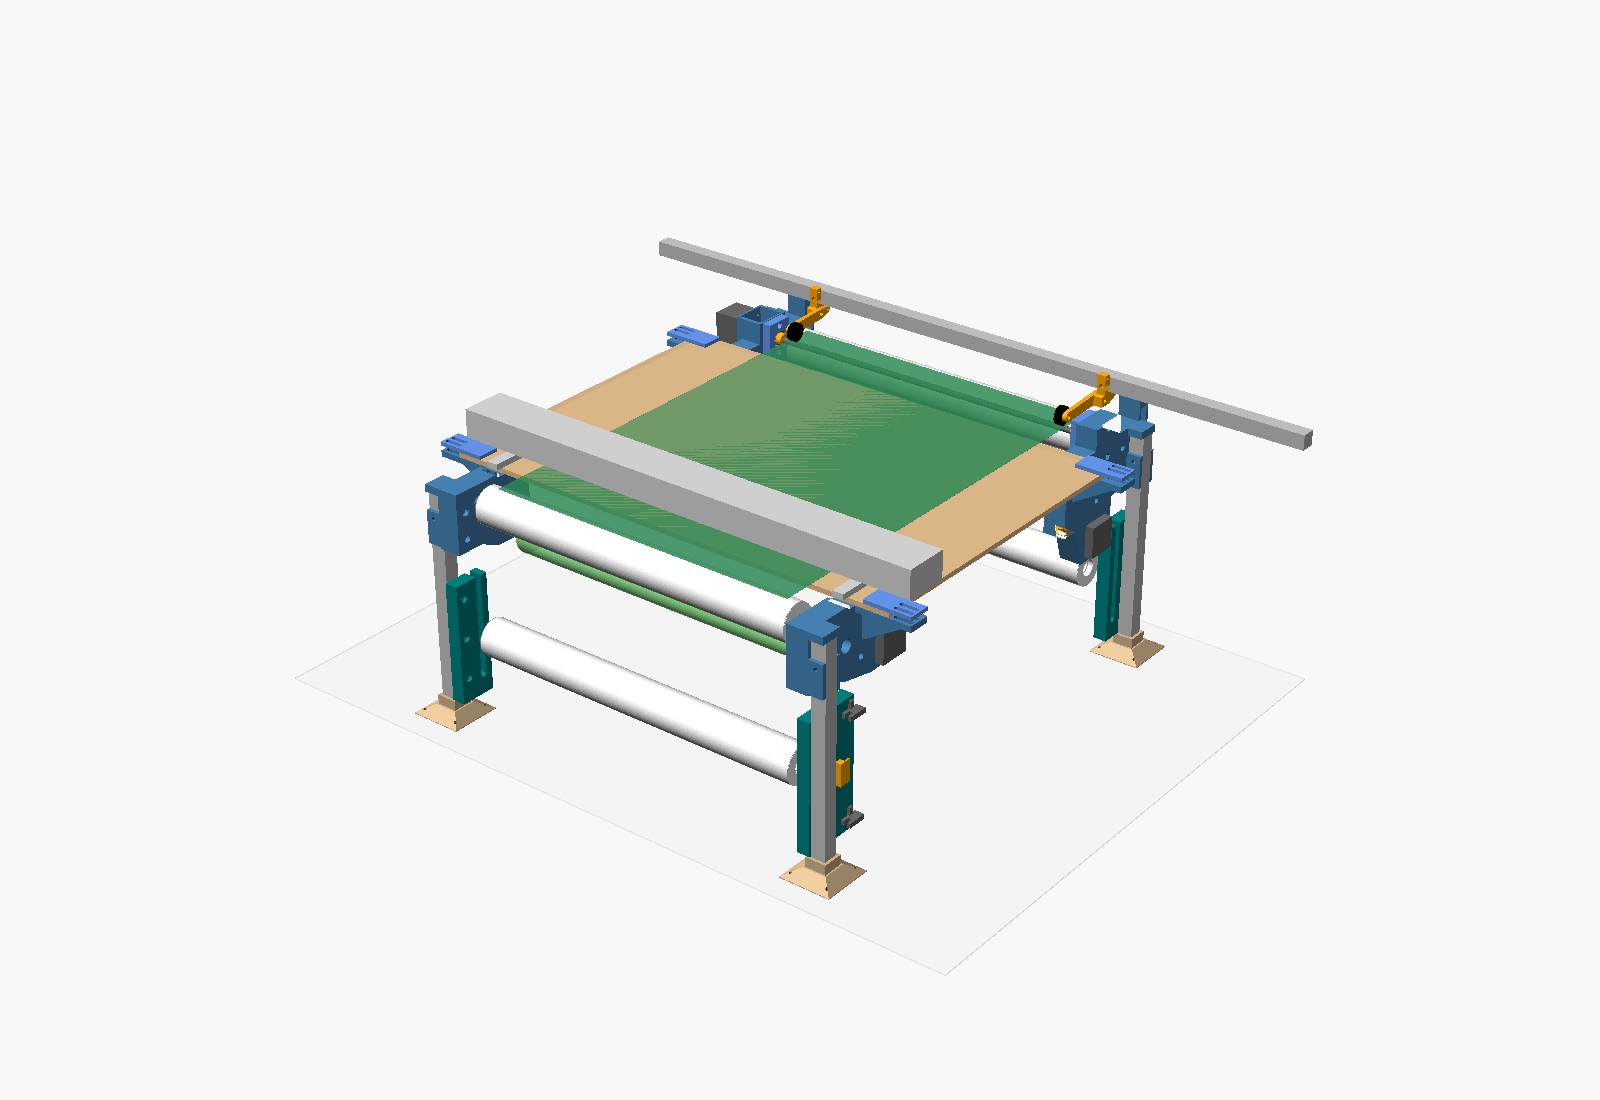
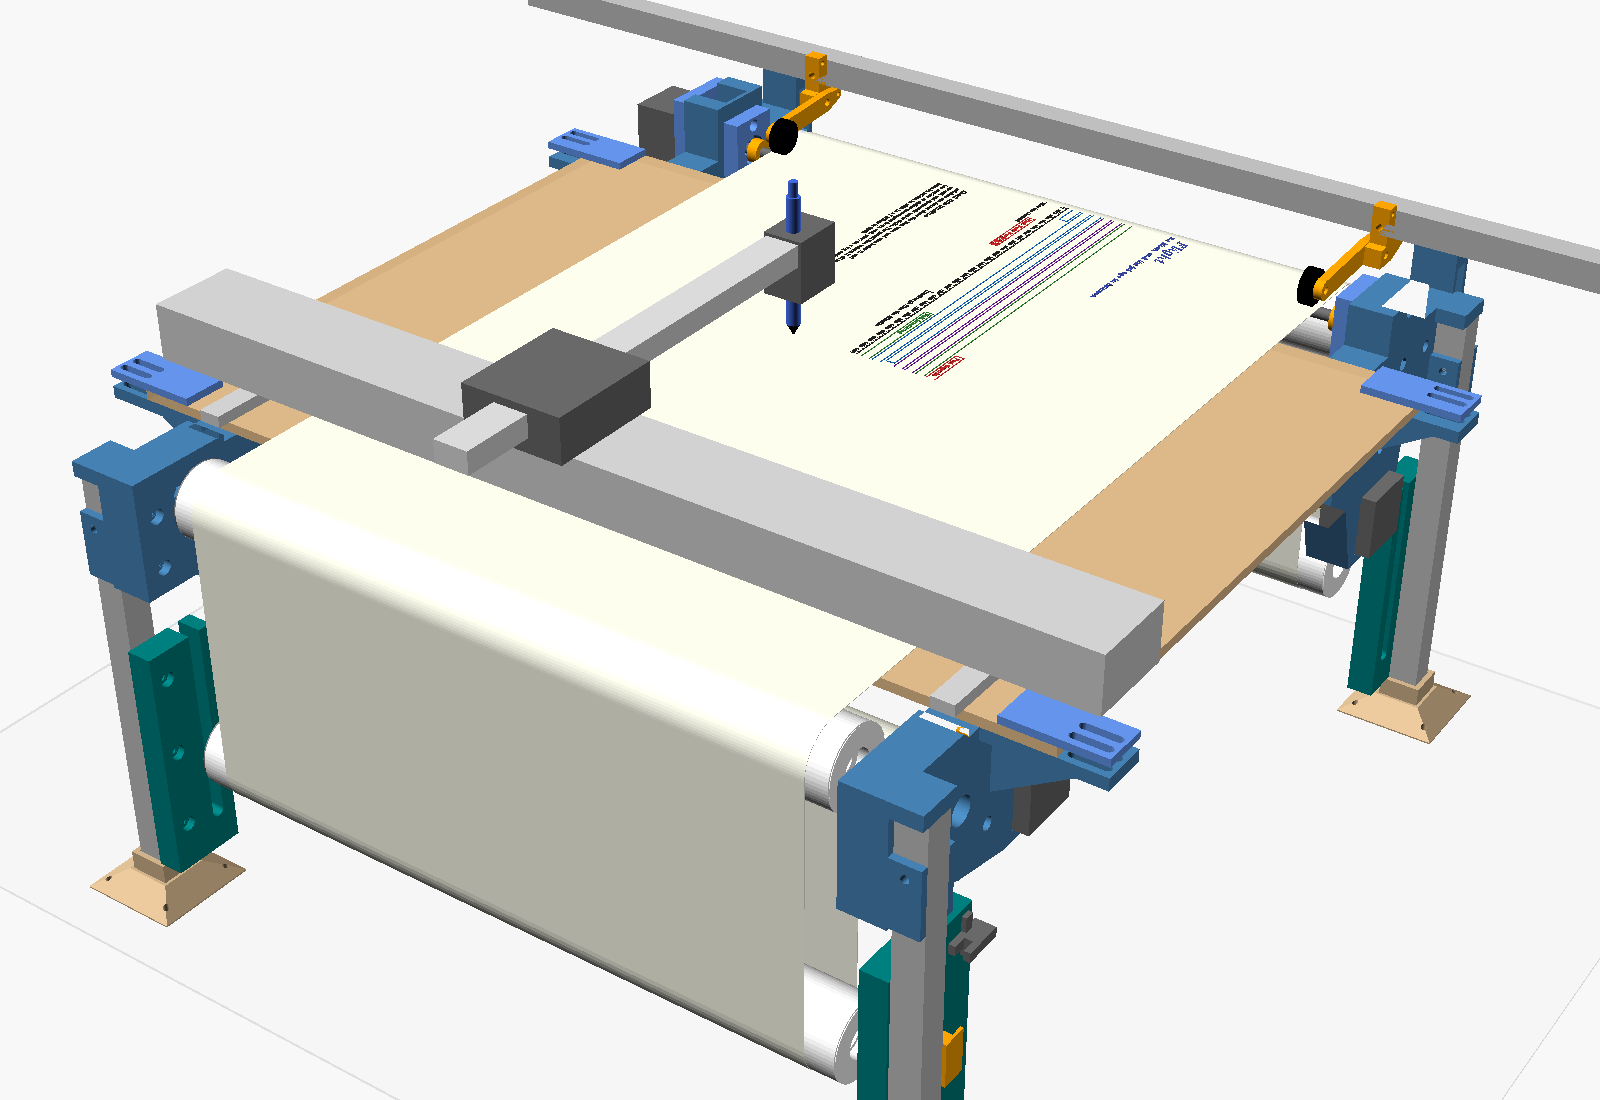
Show off the newer features and the hardware in the README
The README now opens by saying the software needs no plotter to render
SVGs, then shows a new showcase timeline, examples/flight.axitl (title
and credits with illustrations, notes, inline formatting, a red and black
rocket hatched in two pens, and a log-scale graph), with a close-up and
the source of each feature. A new section explains the paper transport
with renders from the front, a cutaway showing the paper's path, and a
close-up of the pen over a part-plotted timeline.

The renders come from hardware/transport/render_views.sh. The assembly
in transport.scad now draws the paper along its whole path round the
dancers, a simple AxiDraw carriage, arm and pen, and optionally a
timeline on the paper (pen strokes outlined by Inkscape, since OpenSCAD
imports SVG shapes as filled) and a cutaway. The printed parts are
unchanged.

diff --git a/README.md b/README.md
@@ -4,16 +4,28 @@ Timelines drawn by a pen plotter on long rolls of paper. You describe people, ev
 language, `.axitl`, and AxiTimeline lays them out, draws every line and letter as pen strokes, and plots them on
 an [AxiDraw SE/A3](https://axidraw.com/) one pen at a time, moving the roll through in strips.
 
-This repository is the software:
+> **You don't need a plotter.** The software runs on its own and writes ordinary SVG files, true to size in
+> millimetres, so if all you want is a rendered timeline to look at, print or send elsewhere, `uv sync` and
+> `axitime render` are all it takes. The AxiDraw, its Python API and the paper transport only come into it
+> when you plot.
+
+![The Age of Flight: a century of aviators above a ruled baseline, wars and the Space Race below, a pencil graph of airline passengers rising behind them, a title with a biplane in the top-left corner, notes, and credits with a badge in the bottom-right](docs/images/flight.png)
+
+*[`examples/flight.axitl`](examples/flight.axitl), a metre long, as `axitime render` previews it with each pen in
+its own colour.*
+
+This repository has:
 
 - **libaxitl**, the engine: it parses `.axitl`, lays the timeline out and renders it as SVG. It's a pure library
   with no file, network or clock access of its own, so other programs (a web front-end, say) can reuse it.
 - **axitime**, the command-line program that hosts libaxitl, writes the SVG files and drives the plotter.
-- An editor extension for **VS Code**, with highlighting, completion, hover help and errors as you type.
+- An editor extension for **VS Code**, with highlighting, completion, hover help, errors as you type and a
+  rendered preview.
+- **The paper transport**, a printed stand that carries the roll under the AxiDraw, modelled in OpenSCAD.
 
-**Status, October 2026.** Parsing, layout, rendering and the `check`, `list-pens` and `render` commands work.
-`plot` has drawn its first test strips on a real AxiDraw. The paper transport (the motorised roll feed) is still
-to be designed, so for now `plot` asks you to move the paper on by hand between strips.
+**Status, November 2026.** Parsing, layout, rendering and the `check`, `list-pens` and `render` commands work.
+`plot` has drawn its first test strips on a real AxiDraw. The paper transport is designed but not yet built, so
+for now `plot` asks you to move the paper on by hand between strips.
 
 ## What it looks like
 
@@ -39,7 +51,7 @@ event "First powered flight" 1903-12-17 time_label=year
 event "World Wide Web proposed" 1989-03 time_label=month
 ```
 
-is drawn like this (the preview `axitime render` writes, with each pen in its own colour):
+is drawn like this:
 
 ![The century example, rendered: lifespans above a ruled baseline, the Second World War and the Space Race below, and events on poles with their dates written under their names](docs/images/century.png)
 
@@ -51,9 +63,89 @@ Some things to notice:
   under the event's name.
 - Every letter is drawn as strokes from a single-line Hershey font, which a pen can draw.
 
+## Dressing it up
+
+The flight timeline at the top uses most of the rest of the language. Close up, from 1955 to 1975:
+
+![A close-up of the flight timeline: the pencil graph of passengers climbing behind the bars, italic names of aircraft, the Space Race below the line, and a red and black rocket hatched beside Apollo 11's landing](docs/images/flight-detail.png)
+
+- **A title and credits** sit in the top-left and bottom-right corners, each with an optional drawing beside it,
+  and everything else keeps clear of them:
+
+  ```text
+  title "The Age of *Flight*" indigo
+      subtitle="From Kitty Hawk to the Moon, and the jet age in between"
+      font=HersheySerifBold font_size=11mm
+      illustration(illustrations/biplane.svg at=left)
+  ```
+
+- **Notes** are paragraphs of free text on the top or bottom edge, anchored to the start, the end or a date.
+  Quoted lines one after another make one paragraph, wrapped to the note's width:
+
+  ```text
+  note anchor=1920 edge=bottom width=150mm {
+      heading "About this timeline"
+      "**Aviators** are drawn above the line, wars and eras below it, and aircraft and spacecraft"
+      "are in *italic*. ..."
+  }
+  ```
+
+- **Bold, italic and ~~strikethrough~~**, written as in Markdown, in labels, the title, credits and notes. They're
+  drawn in the font's real bold and italic cuts, never faked.
+- **Illustrations** can be coloured. A pen can't fill a shape, so `fill=solid` hatches each filled shape, and
+  `pens=auto` draws each of the drawing's colours in the nearest pen, as a pass of its own. The rocket is red and
+  black:
+
+  ```text
+  event "*Apollo 11* lands" 1969-07-20 illustration(illustrations/rocket.svg height=24mm fill=solid pens=auto)
+  ```
+
+- **Graphs** draw a line of values behind the timeline, in pencil, without moving anything. The points come from
+  a CSV file or are written inline; the scale can be linear or log, the line straight, smooth or stepped, and
+  shaded underneath:
+
+  ```text
+  graph "Airline passengers a year (approximate)" HB-pencil
+      y_scale=log origin=30 line=smooth height=70mm
+      fill=diagonal fill_pen=2H-pencil fill_depth=3mm {
+      1950    31
+      1960   106
+      ...
+  }
+  ```
+
+## The hardware
+
+The AxiDraw draws a strip of the roll at a time, 25cm by default, then the paper moves on and it draws the next.
+The paper transport is a printed stand that does the moving: the AxiDraw sits on a board on four legs, and the
+roll runs under its bar, from a supply roll at the back to a take-up roll at the front.
+
+![The transport from the operator's side: the AxiDraw's bar across the back of the board, its arm reaching forward with a pen over a timeline part-way through plotting, and the paper running over rollers at either end and down to rolls beneath](docs/images/transport-front.png)
+
+![A cutaway from the side, with the paper's path drawn in red: off the supply roll at the back, down round a weighted roller, up over the board under the pen, over the drive roller and down round a second weighted roller to the take-up roll](docs/images/transport-cutaway.png)
+
+In the cutaway the paper (red) runs from left to right:
+
+1. It comes off the **supply roll** and hangs in a loop round a weighted roller, the **dancer**, before rising
+   over the back roller onto the board.
+2. It crosses the board under the AxiDraw's bar and pen.
+3. A gritted **drive roller**, set flush with the board just beyond the pen's reach, moves it on. Sprung pinch
+   wheels press each margin onto it, as on a vinyl cutter. This is the only movement that has to be exact.
+4. It turns down over the front roller, round the front dancer and up onto the **take-up roll**.
+
+The dancers keep the paper at the same tension whichever way it moves, and each roll's motor only has to keep its
+dancer between two sensors. The paper goes back to the start after every pen, so it moves both ways.
+
+![A close-up of the pen over the paper, with the flight timeline drawn on it up to where the pen is](docs/images/transport-closeup.png)
+
+The design is written up in [`docs/transport.md`](docs/transport.md), and
+[`hardware/transport`](hardware/transport) has the OpenSCAD models, what to print, the parts to buy and the order
+of assembly. These views come from its `render_views.sh`; the AxiDraw in them is reduced to simple blocks.
+
 ## Getting started
 
-You need [uv](https://docs.astral.sh/uv/), which also fetches Python 3.12 if you don't have it. From the repo:
+You need [uv](https://docs.astral.sh/uv/), which also fetches Python 3.12 if you don't have it. Nothing here needs
+the plotter until you come to `plot`. From the repo:
 
 ```bash
 uv sync
@@ -74,7 +166,7 @@ They're at true size in millimetres, so they open in Inkscape with each pen as a
 open -a Inkscape renders/century-preview.svg
 ```
 
-On the computer that drives the AxiDraw, install its Python API as well (it comes from Evil Mad Scientist, not
+Only on the computer that drives the AxiDraw, install its Python API as well (it comes from Evil Mad Scientist, not
 PyPI):
 
 ```bash
@@ -141,6 +233,11 @@ The plotter's travel, strip length and pen settings can be adjusted in `~/.confi
   beside the credits is scaled to their height, and `max_height=` limits both. The credits' lines are aligned to the
   right, against the logo; `at=` and `align=` change either. Nothing else is placed on them. A title in a converted
   outline font can fill its letters with `font_fill=solid` (or any other fill pattern).
+- **Notes:** `note anchor=start { heading "…" "…" }` puts paragraphs of text on the top or bottom edge (`edge=`),
+  at the start, middle or end, or centred on a date. Lines are aligned left, or right with `align=right`, and a
+  note can have an illustration beside it.
+- **Formatting:** `*italic*`, `**bold**` and `~~strikethrough~~` in labels, the title, credits and notes, drawn in
+  the font family's own bold and italic cuts.
 - **Graphs:** `graph "Title" data="file.csv"` draws a line of values under everything else, in pencil by default,
   with its origin on the baseline. It never moves anything; it's broken where it would run through text.
   - Points come from a CSV file read as it comes (pick the rows, columns and date format), or are written inline.
@@ -154,6 +251,8 @@ The plotter's travel, strip length and pen settings can be adjusted in `~/.confi
 - **Lengths** are millimetres unless they say `cm` or `m`.
 
 The full rules are in [`docs/language-spec.md`](docs/language-spec.md). The other examples show more:
+[`title-and-credits.axitl`](examples/title-and-credits.axitl), [`notes.axitl`](examples/notes.axitl) and
+[`formatting.axitl`](examples/formatting.axitl) each show one of the features above on its own,
 [`industrial.axitl`](examples/industrial.axitl) uses includes, groups and an illustration,
 [`chernobyl.axitl`](examples/chernobyl.axitl) is a timeline to the second, [`labels.axitl`](examples/labels.axitl)
 shows where labels go when they're longer than their bars, and [`crash-1929.axitl`](examples/crash-1929.axitl) and
@@ -165,7 +264,8 @@ shows where labels go when they're longer than their bars, and [`crash-1929.axit
 - highlighting, in which typos stay uncoloured;
 - completion that knows what fits where;
 - hover help taken from the language spec;
-- the errors and warnings from `axitime check`, shown when you open or save a file.
+- the errors and warnings from `axitime check`, shown when you open or save a file;
+- a preview panel showing the rendered timeline.
 
 Its [README](editors/vscode/README.md) explains how to install it.
 
@@ -194,8 +294,9 @@ The design is written up in [`docs/interpreter-cli-spec.md`](docs/interpreter-cl
 | `libaxitl/` | The engine: parsing, dates, layout, text shaping, drawing and SVG rendering, with the bundled fonts |
 | `axitime/` | The command line, the job hash and log, and the plotter and paper-transport drivers |
 | `editors/vscode/` | The VS Code extension |
+| `hardware/transport/` | The paper transport's printed parts in OpenSCAD, with what to print, buy and assemble |
 | `examples/` | Example timelines |
-| `docs/` | The language and interpreter specs (the canonical copies) and the list of known gaps |
+| `docs/` | The language and interpreter specs (the canonical copies), the transport's design and the list of known gaps |
 | `vendor/` | One wheel from the AxiDraw API, kept here so installs work on any machine ([why](vendor/README.md)) |
 
 ## Development

diff --git a/hardware/transport/README.md b/hardware/transport/README.md
@@ -13,10 +13,16 @@ and putting them together.
 - `build.sh`: exports every part to `stl/` (not committed), laid flat for printing, and runs `check_fit.py`,
   which confirms each one fits the Prusa Core One's 250 × 220 × 270 bed and sits on it. A full build takes
   about ten minutes; `./build.sh foot board_jaw` builds just those.
+- `render_views.sh`: renders the assembly from four angles into `docs/images/transport-*.png`, for the
+  READMEs, with part of `examples/flight.axitl` drawn on the paper. It needs Inkscape as well, to turn the
+  pen strokes into shapes OpenSCAD can import (in `views/`, not committed), and takes about two minutes.
+  The AxiDraw's carriage, arm and pen in these views are simple blocks, not a model of the real thing.
 
 Tested with OpenSCAD 2021.01 on macOS (Intel).
 
-![The transport's assembly in OpenSCAD, seen from behind the AxiDraw](../../docs/images/transport-assembly.png)
+![The transport's assembly in OpenSCAD, seen from behind the AxiDraw, with a timeline part-drawn on the paper](../../docs/images/transport-assembly.png)
+
+![A cutaway from the operator's left, with the paper's path in red](../../docs/images/transport-cutaway.png)
 
 ## What to print
 
